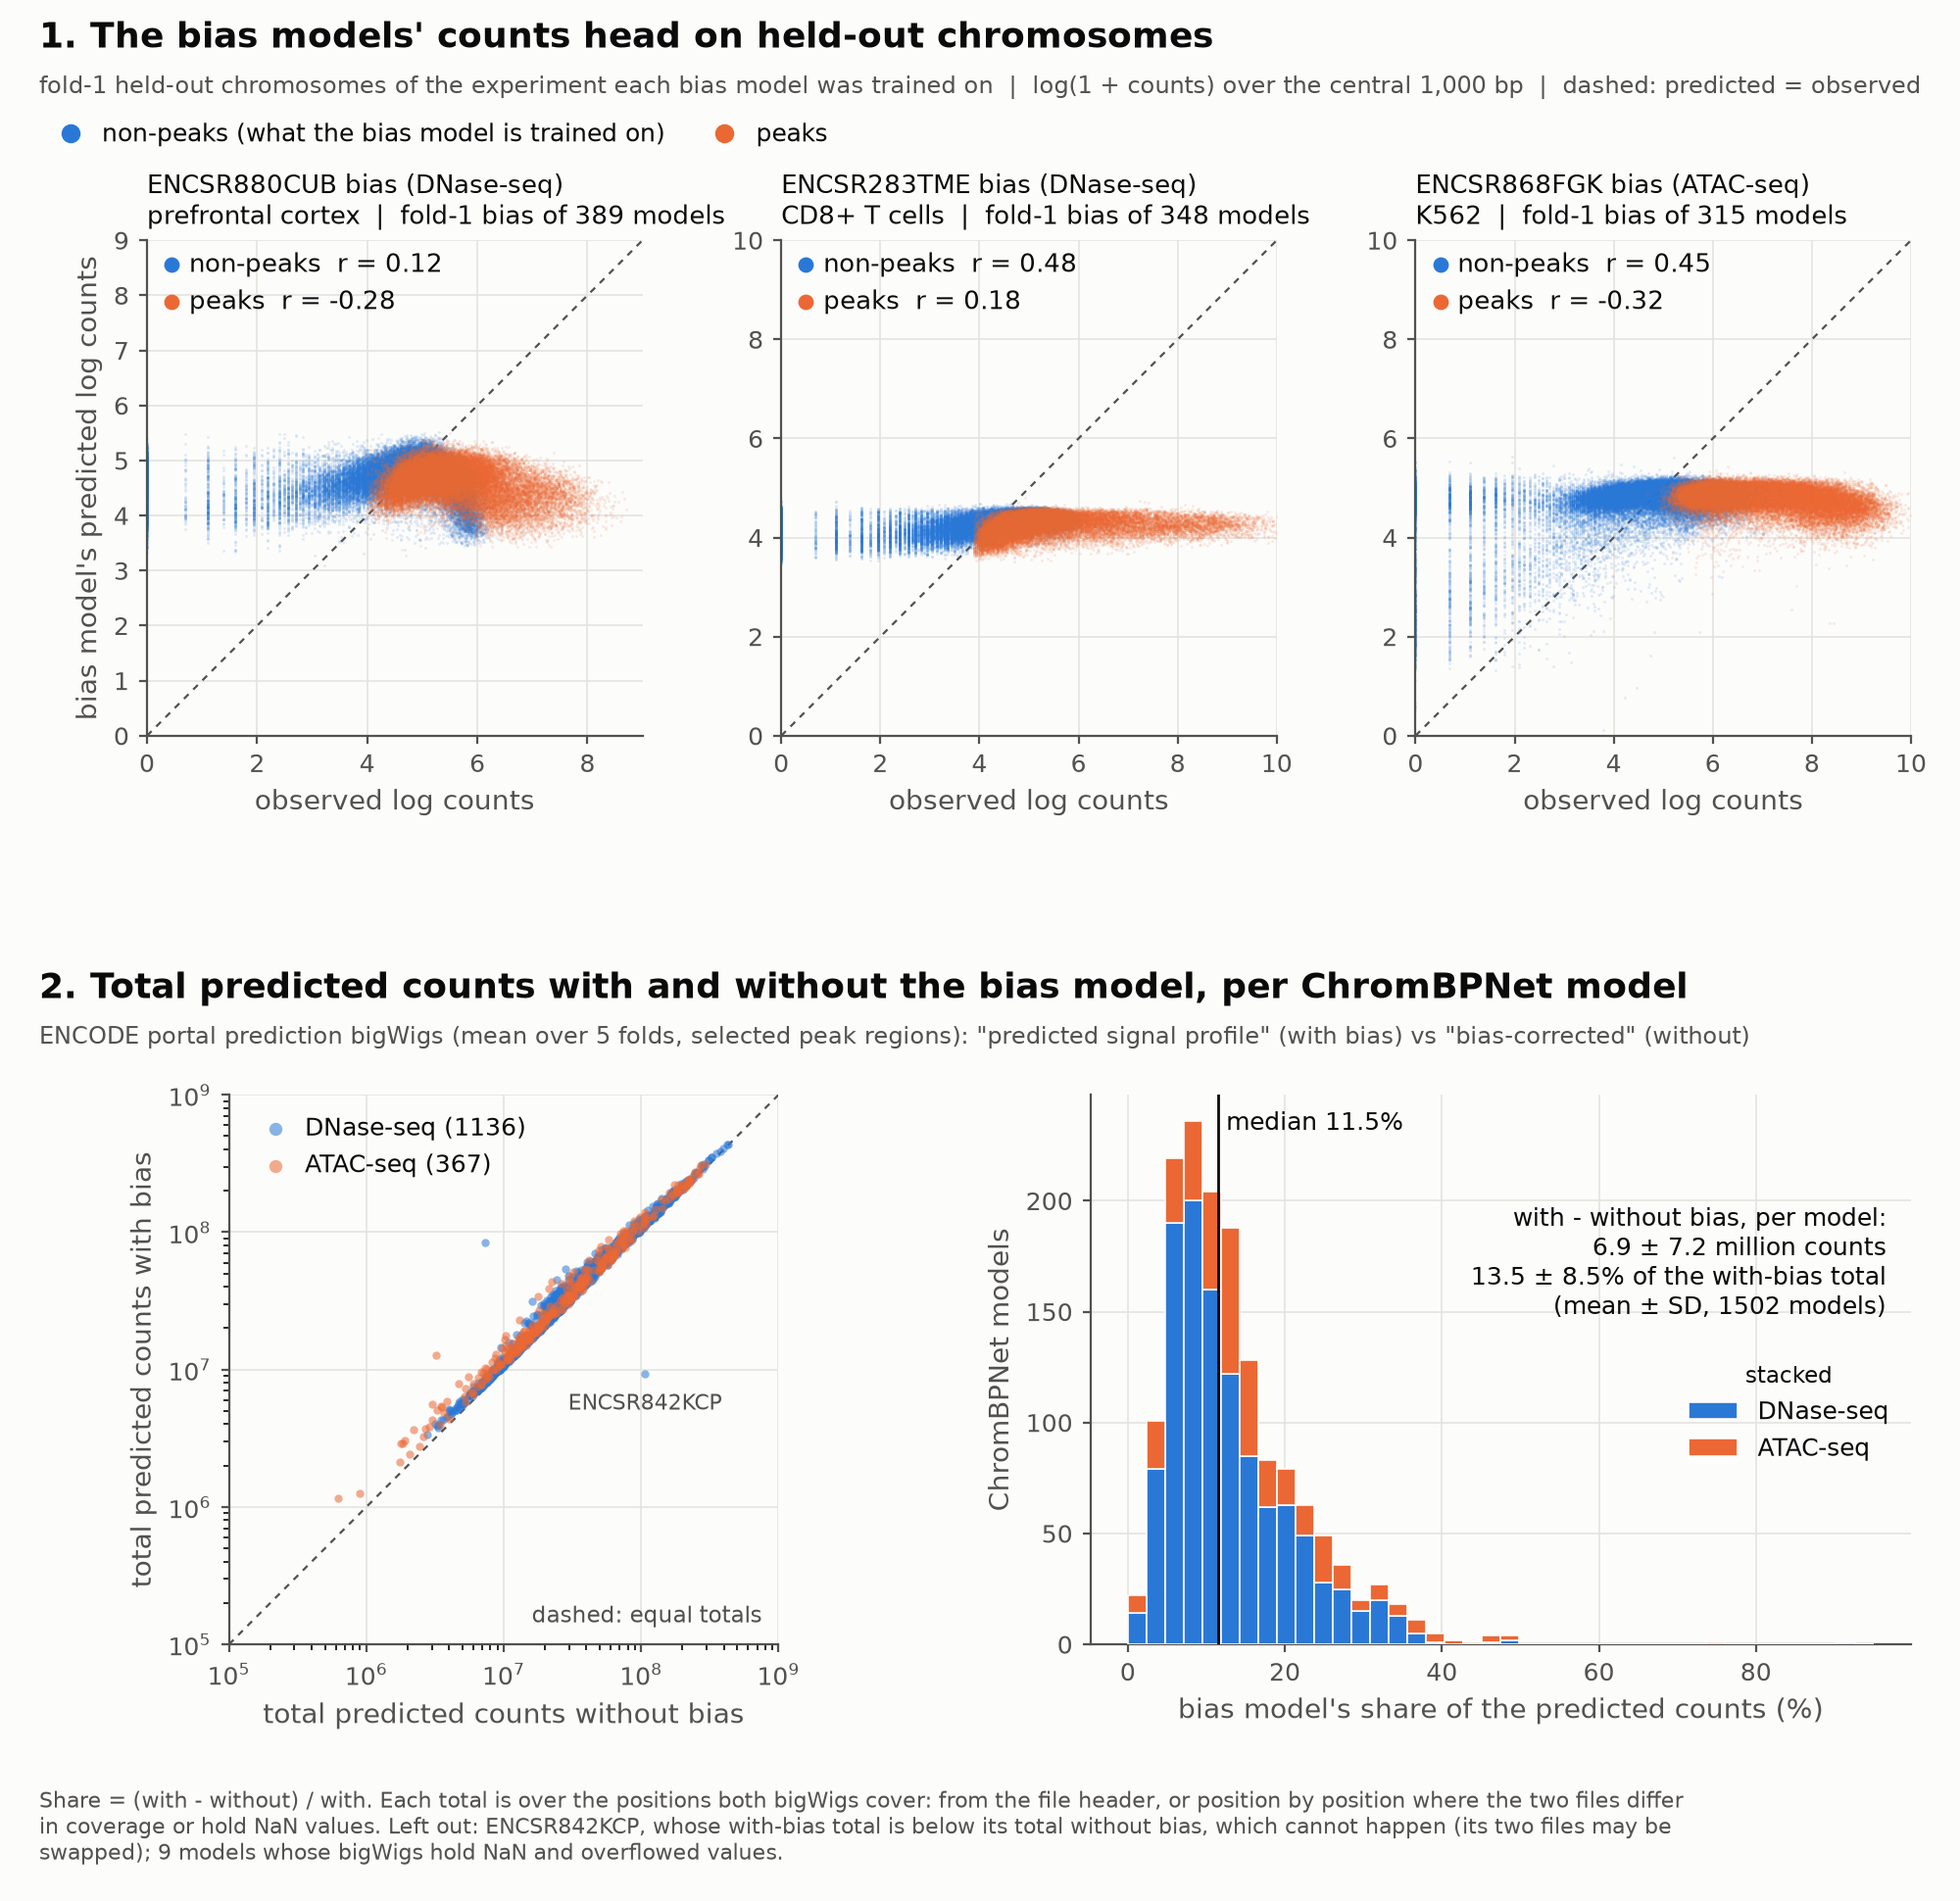
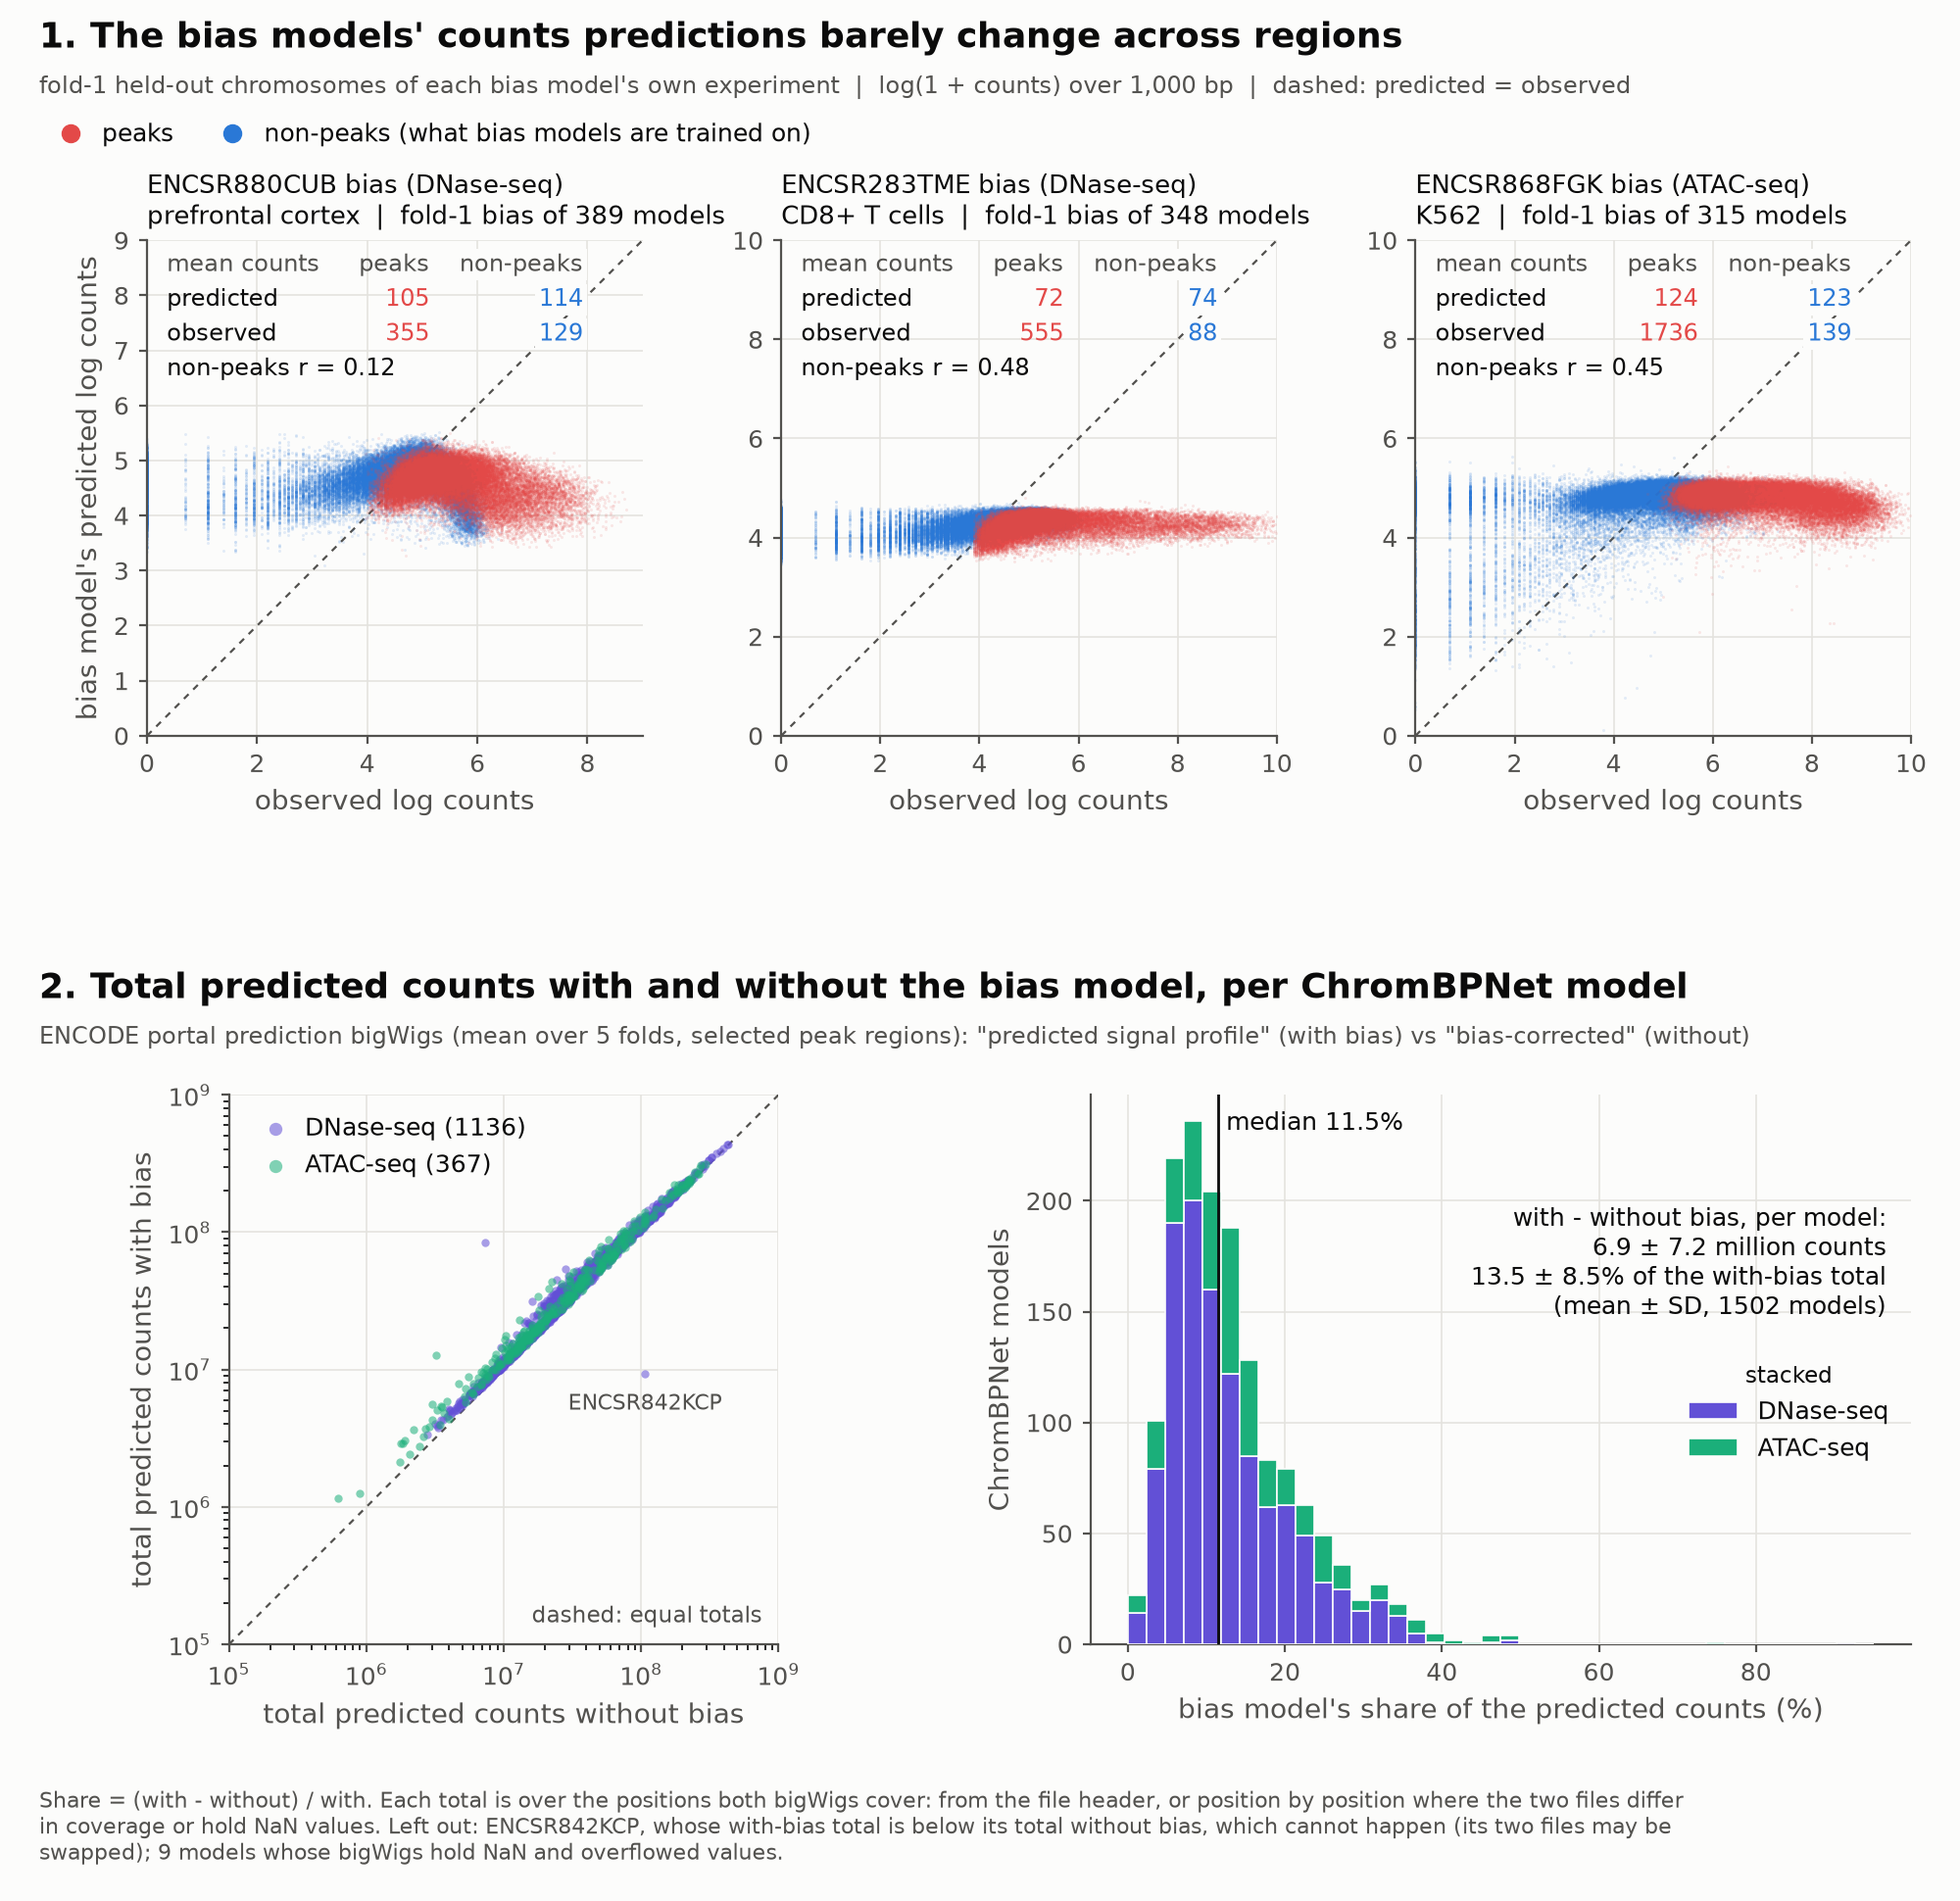
Updated figures.

diff --git a/content/blogs/2026-015/index.md b/content/blogs/2026-015/index.md
@@ -220,7 +220,7 @@ Lastly, we’ve added a few non-backward compatible improvements to the model (t
 
 The original ChromBPNet pretrained a small bias model to learn the sequence preference of the assay enzyme (DNase-seq: DNase I, ATAC-seq: Tn5 transposase), predicting the enzyme’s effect on both the total accessibility reads across 1,000 bp window (counts head prediction) and on the distribution of the sequencing reads (profile head prediction). However, the enzyme’s bias is typically not strong enough to affect the general accessibility of a broad, 1,000bp window (e.g., it does not newly open closed chromatin). Its effects are largely local, applying a local preference once it accesses already open chromatin, shifting the signal toward its preferred sequences. Hence, after training many ChromBPNet models for ENCODE GRAMMAR, we observed that the bias model (which is mostly fixed across ENCODE GRAMMAR for each assay type anyway, as enzyme bias is largely constant across cell type environments) was largely contributing nothing towards the counts head predictions, and almost exclusively contributing to the profile head predictions. This is also in alignment with its training: 1) The bias model is pretrained on nonpeaks only, so its trained dynamic range is highly limited. 2) A “good” bias model often showed strong profile head performance, but could show very poor counts head performance, often even with negative correlation (i.e., predicting in the “opposite” direction of a tiny accessibility signal; suggesting noise). Hence, instead of contributing non-predictable counts “noise”, as well as confound gradients during training, in `chrombpnet-refactor`, we now train a bias model that predicts reads distribution _only_ (profile head only), and is connected only to the profile head prediction of the full ChromBPNet model.
 
-![Figure: Enzyme bias model: Performance & total counts head prediction by the bias model across 1,512 ENCODE GRAMMAR ChromBPNet models.](chrombpnet_bias_counts.png "width=600 1. Performance of main ENCODE GRAMMAR ChromBPNet bias models during pretraining. 2. Distribution of total counts predicted by the bias models, across all 1,512 ENCODE GRAMMAR ChromBPNet models.")
+![Figure: Enzyme bias model: Performance & total counts head prediction by the bias model across 1,512 ENCODE GRAMMAR ChromBPNet models.](chrombpnet_bias_counts.png "width=600 1. Counts predicted by the three main ENCODE GRAMMAR bias models on held-out chromosomes, against total observed counts: nearly the same in peaks (red) as in non-peaks (blue). 2. Total predicted counts with vs. without the bias model, across 1,502 ENCODE GRAMMAR ChromBPNet models: the bias model adds a median 11.5%.")
 
 ### Student-Teacher distillation
 
@@ -228,7 +228,7 @@ Another learning from ENCODE GRAMMAR (and following the advantages shown by rela
 
 To assess the reproducibility of distillation to match ensembling, we repeat the prediction and contribution score analysis above, observing highly reproducible results by distillation.
 
-![Figure: Ensembled (5-fold) ChromBPNet vs. Distilled Student ChromBPNet: Reproduciblity of test set predictions & DeepLIFT/DeepSHAP contribution scores.](chrombpnet_distill_ensemble_student.png "width=600 Predictions (top) and DeepLIFT/DeepSHAP scores (bottom) of each model against the 5-fold ensemble mean, on ~10,000 shared peaks per dataset (higher = more reproducible). `fold model`: one fold model, against the mean of all 5 (hatched) or of the other 4 (hollow). `LOFO student`: distilled from the 5 fold models on fold k's training chromosomes. `final student`: distilled on every chromosome.")
+![Figure: Ensembled (5-fold) ChromBPNet vs. Distilled Student ChromBPNet: Reproduciblity of test set predictions & DeepLIFT/DeepSHAP contribution scores.](chrombpnet_distill_ensemble_student.png "width=600 Predictions (top) and DeepLIFT/DeepSHAP scores (bottom) of each model against the 5-fold ensemble mean, on ~10,000 shared peaks per dataset (higher = more reproducible). `fold model`: one fold model, against the 5-fold mean it is part of. `LOFO student`: distilled from the 5 fold models on fold k's training chromosomes. `final student`: distilled on every chromosome.")
 
 Lastly, we also introduce a minor change to model checkpoint selection criteria during validation, incorporating the actual metrics used during final evaluation: Pearson r and Jensen-Shannon distance.
 
